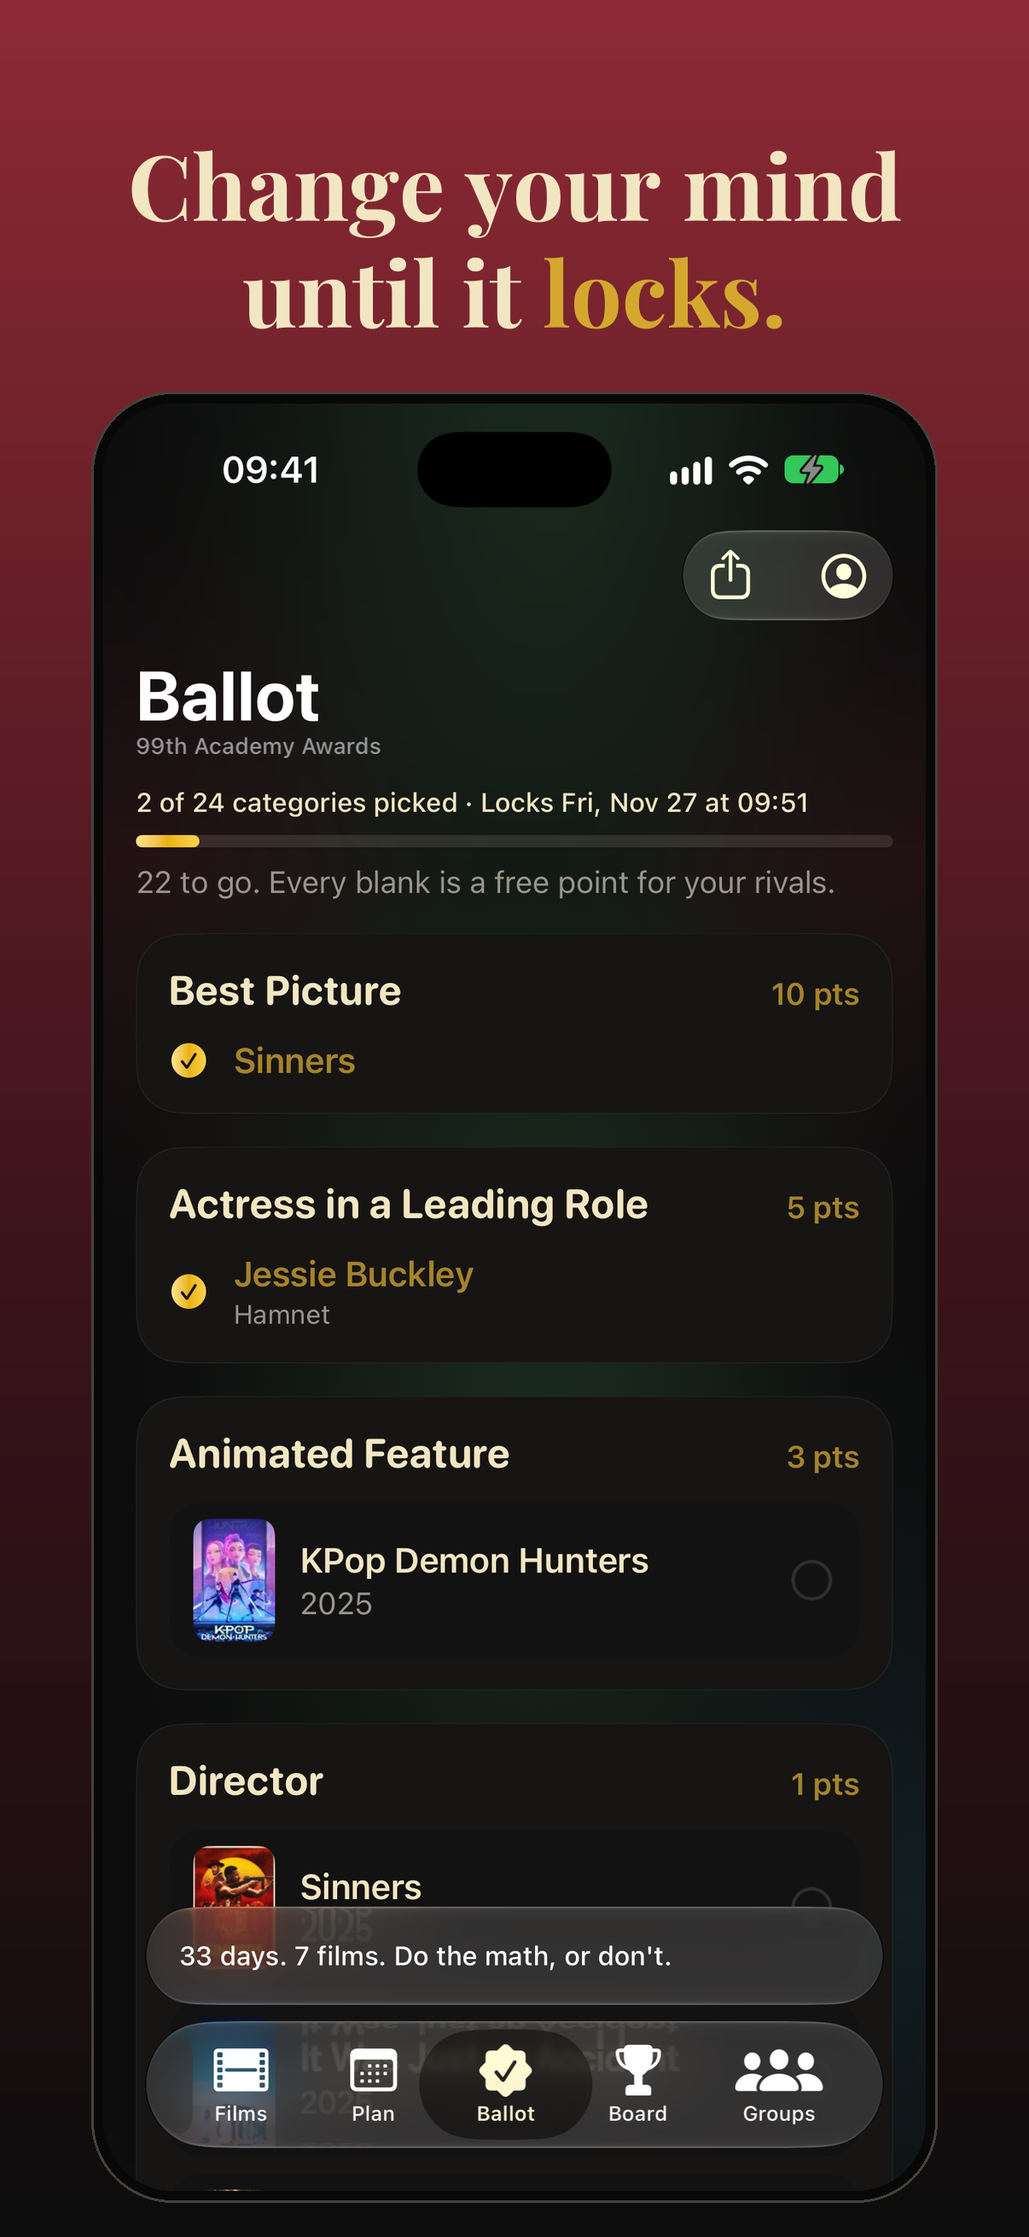
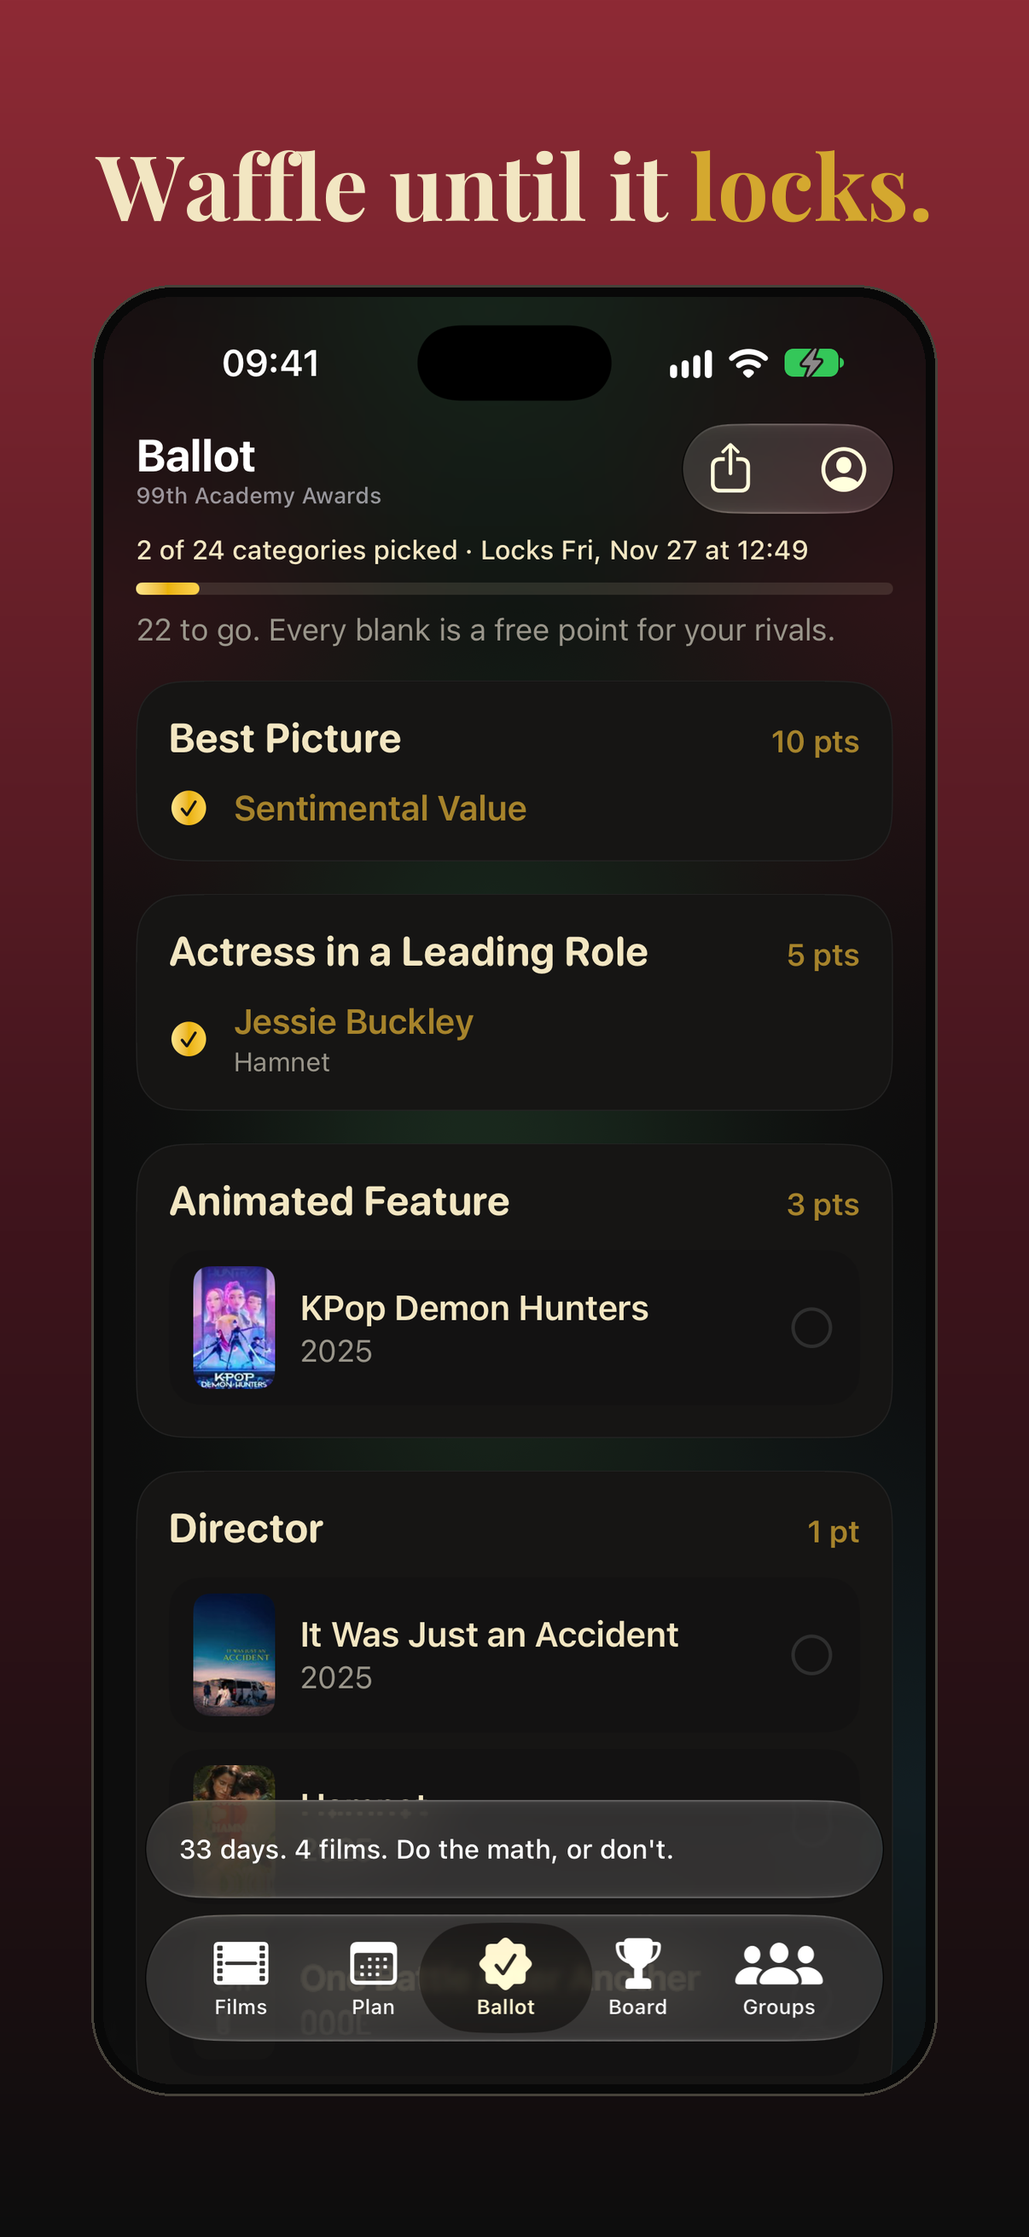
P6-17: store images follow Apple's asset best practices
- Headlines sell the moment in the Host voice (frames.json, listing.md).
- -store-shots (DEBUG): the sample season leaves out the Sinners,
  Bugonia and Frankenstein posters so every shot suits a 4+ rating, and
  share cards drop the App Store badge. Posters and the real card unchanged.
- New iOS 27 universal creative asset (5244 x 2950, header and search
  results), plus a wordmark variant, in docs/app-store/creative/.
- Drafts recaptured for iPhone 6.9", 6.3" and, new, iPad 13".

diff --git a/OscarsTracker/OscarsTracker/Data/SampleDataSource.swift b/OscarsTracker/OscarsTracker/Data/SampleDataSource.swift
@@ -197,6 +197,31 @@ final class SampleDataSource: AppDataSource {
         }
     }
 
+    /// Sample films whose posters don't suit a 4+ store image (a gun aimed,
+    /// a face dripping like a wound, a skull in hand).
+    static let storeUnsafeFilms: Set<Int> = [2, 5, 7]
+
+    /// The season for App Store captures (`-store-shots`): the same story with
+    /// the films above left out of the season (films, ballot, plan, everyone's
+    /// watched lists), so no screen can show their posters. The posters
+    /// themselves are untouched.
+    func useStoreSafeSeason() {
+        let unsafe = Self.storeUnsafeFilms
+        movieList.removeAll { unsafe.contains($0.id) }
+        watched = [1, 4, 6]
+        categories = categories.map { category in
+            BallotCategory(id: category.id, name: category.name, pointsValue: category.pointsValue,
+                           nominations: category.nominations.filter { !unsafe.contains($0.movie?.id ?? 0) },
+                           displayMode: category.displayMode)
+        }
+        savedPicks[1] = 104  // Sentimental Value, not Sinners
+        let swaps = [2: 8, 5: 9]  // Frankenstein and Sinners leave the plan for It Was Just an Accident and Marty Supreme
+        planItems = planItems.map { item in
+            guard let movieID = swaps[item.movieId], let day = PlanDay(item.plannedDate) else { return item }
+            return SampleData.planItem(id: item.id, movieID: movieID, day: day)
+        }
+    }
+
     /// Fixed shares to serve instead of the made-up ones.
     var shareRows: [PickShare]?
     /// How long each group's shares take to arrive, for tests of answers

diff --git a/OscarsTracker/OscarsTracker/App/OscarsTrackerApp.swift b/OscarsTracker/OscarsTracker/App/OscarsTrackerApp.swift
@@ -49,6 +49,8 @@ struct OscarsTrackerApp: App {
     /// mode on the rehearsal, with Best Picture announced three seconds in;
     /// add `-live-activity` to start the Live Activity a second later).
     /// `-ballot-stage locked` or `winners` moves the season past the lock.
+    /// `-store-shots` is for App Store captures: posters that don't suit a 4+
+    /// store image stay off screen, and share cards leave off the App Store badge.
     private static func dataSource() -> any AppDataSource {
         #if DEBUG
         let arguments = ProcessInfo.processInfo.arguments
@@ -58,6 +60,8 @@ struct OscarsTrackerApp: App {
             if arguments.contains("-blocked") {
                 data.blocked = [BlockedUser(userId: "u-chris", username: "Chris", avatarUrl: nil, blockedAt: nil)]
             }
+            let storeShots = arguments.contains("-store-shots")
+            if storeShots { data.useStoreSafeSeason() }
             switch UserDefaults.standard.string(forKey: "ballot-stage") {
             case "locked": data.passLock()
             case "winners": data.passLock(winners: true)
@@ -69,7 +73,7 @@ struct OscarsTrackerApp: App {
                 data.config.featureFlags[AppConfig.liveActivity] = arguments.contains("-live-activity")
                 Task {
                     try? await Task.sleep(for: .seconds(3))
-                    data.announce([103], inCategory: 1)
+                    data.announce([storeShots ? 104 : 103], inCategory: 1)
                 }
             }
             return data

diff --git a/OscarsTracker/OscarsTracker/Share/ShareCardView.swift b/OscarsTracker/OscarsTracker/Share/ShareCardView.swift
@@ -27,6 +27,13 @@ private enum PlayfairDisplay {
 /// your picks and, once winners are in, your wins and score.
 struct ShareCardView: View {
     static let size = CGSize(width: 360, height: 640)
+    #if DEBUG
+    /// Off for App Store captures (`-store-shots`): store images can't show
+    /// another marketplace's logo, and that includes Apple's own badge.
+    static let showsStoreBadge = !ProcessInfo.processInfo.arguments.contains("-store-shots")
+    #else
+    static let showsStoreBadge = true
+    #endif
 
     let card: ShareCard
     /// Posters by URL string, loaded before the card is drawn (an
@@ -165,8 +172,10 @@ struct ShareCardView: View {
                 Text("Oscars Tracker").font(.playfair(18)).foregroundStyle(Self.gold)
                 // Apple's official badge, unaltered, with clear space of at
                 // least a quarter of its height (App Store marketing guidelines).
-                Image("AppStoreBadge").resizable().scaledToFit().frame(height: 28)
-                    .padding(.leading, 10)
+                if Self.showsStoreBadge {
+                    Image("AppStoreBadge").resizable().scaledToFit().frame(height: 28)
+                        .padding(.leading, 10)
+                }
             }
             Text("Posters and film data from TMDB. This product uses the TMDB API but is not endorsed or certified by TMDB.")
                 .font(.system(size: 5.5)).foregroundStyle(Self.muted).multilineTextAlignment(.center)

diff --git a/OscarsTracker/OscarsTrackerTests/Native/StoreShotsTests.swift b/OscarsTracker/OscarsTrackerTests/Native/StoreShotsTests.swift
@@ -1,0 +1,31 @@
+import Foundation
+import Testing
+@testable import OscarsTracker
+
+/// The `-store-shots` season keeps posters unfit for a 4+ store image off screen (P6-17).
+@MainActor
+@Suite("Store shots")
+struct StoreShotsTests {
+    private let user = SampleDataSource.userID
+
+    @Test func leavesUnsafeFilmsOutOfTheSeason() async throws {
+        let data = SampleDataSource(fullBallot: true)
+        data.useStoreSafeSeason()
+        let unsafe = SampleDataSource.storeUnsafeFilms
+        let categories = try await data.ballot()
+        let picks = try await data.picks(userID: user)
+        let picked = categories.flatMap(\.nominations).filter { picks.values.contains($0.id) }.compactMap(\.movie?.id)
+        #expect(unsafe.isDisjoint(with: picked))
+        #expect(unsafe.isDisjoint(with: try await data.plan(userID: user).map(\.movieId)))
+        #expect(unsafe.isDisjoint(with: try await data.watchedMovieIDs(userID: user)))
+        #expect(unsafe.isDisjoint(with: try await data.movies().map(\.id)))
+        let nominated = Set(categories.flatMap(\.nominations).compactMap(\.movie?.id))
+        #expect(unsafe.isDisjoint(with: nominated))
+        #expect(categories.allSatisfy { !$0.nominations.isEmpty })
+    }
+
+    @Test func leavesTheRegularSampleSeasonAlone() async throws {
+        let data = SampleDataSource()
+        #expect(try await data.picks(userID: user)[1] == 103)
+    }
+}

diff --git a/scripts/frame-store-images.py b/scripts/frame-store-images.py
@@ -1,19 +1,26 @@
 #!/usr/bin/env python3
 """Frames raw simulator screenshots into App Store images.
 
-Usage: scripts/frame-store-images.py [--raw DIR] [--out DIR] [--only SET ...]
+Usage: scripts/frame-store-images.py [--raw DIR] [--out DIR] [--only SET ...] [--creative]
 
 For every set folder in --raw (iphone-6.9, iphone-6.1, ipad-13) and every
 shot in docs/app-store/screenshots/frames.json it writes <out>/<set>/<shot>.png at the
 set's exact App Store size, RGB with no alpha: a velvet gradient, the headline in
 Playfair Display (parchment, one gold word at most), and the screenshot in a device
 bezel that bleeds off the bottom edge. Sample data only; no Academy marks.
+
+--creative also makes the iOS 27 creative asset into docs/app-store/creative/:
+one universal asset (16:9, 5244 x 2950, PNG) that fills both the product page
+header and search results, from the iphone-6.9 raw shots. The size is Apple's
+creative assets specifications; the safe area is the art-safe area of Apple's
+universal template (1402 x 962 at x 1921, y 660), and all focal art stays inside it.
 """
 import argparse, json, pathlib, sys
 from PIL import Image, ImageDraw, ImageFont
 
 ROOT = pathlib.Path(__file__).resolve().parent.parent
 FONT = ROOT / "OscarsTracker/OscarsTracker/Resources/Fonts/PlayfairDisplay.ttf"
+LOGO = ROOT / "OscarsTracker/OscarsTracker/Resources/Assets.xcassets/BrandLogo.imageset/BrandLogo.png"
 SIZES = {"iphone-6.9": (1320, 2868), "iphone-6.1": (1206, 2622), "ipad-13": (2064, 2752), "duo-outer": (1398, 2034)}
 VELVET, INK, PARCHMENT, GOLD = (142, 42, 53), (13, 13, 13), (242, 230, 194), (212, 168, 47)
 
@@ -42,12 +49,31 @@ def wrap(draw, text, width, font):
     return lines
 
 
+def playfair(size):
+    font = ImageFont.truetype(str(FONT), size)
+    font.set_variation_by_name("Bold")
+    return font
+
+
+def device(raw, target_w, outer_w):
+    """The screenshot in a rounded black bezel, as an RGBA image."""
+    shot = raw.convert("RGB")
+    shot = shot.resize((target_w, int(shot.height * target_w / shot.width)), Image.LANCZOS)
+    bezel, radius = int(outer_w * 0.012), int(target_w * 0.085)
+    phone = Image.new("RGBA", (target_w + 2 * bezel, shot.height + 2 * bezel), (0, 0, 0, 0))
+    ImageDraw.Draw(phone).rounded_rectangle(
+        (0, 0, phone.width - 1, phone.height - 1), radius + bezel, fill=(8, 8, 8, 255), outline=(70, 66, 58, 255), width=3)
+    mask = Image.new("L", shot.size, 0)
+    ImageDraw.Draw(mask).rounded_rectangle((0, 0, shot.width - 1, shot.height - 1), radius, fill=255)
+    phone.paste(shot, (bezel, bezel), mask)
+    return phone
+
+
 def frame(raw_path, size, text, gold, out_path):
     w, h = size
     canvas = gradient(w, h)
     draw = ImageDraw.Draw(canvas)
-    font = ImageFont.truetype(str(FONT), int(w * 0.088))
-    font.set_variation_by_name("Bold")
+    font = playfair(int(w * 0.088))
     y = int(h * 0.055)
     for line in wrap(draw, text, w, font):
         x = (w - draw.textlength(line, font=font)) / 2
@@ -55,19 +81,68 @@ def frame(raw_path, size, text, gold, out_path):
             draw.text((x, y), word, font=font, fill=GOLD if word in gold else PARCHMENT)
             x += draw.textlength(word + " ", font=font)
         y += int(font.size * 1.18)
-    shot = Image.open(raw_path).convert("RGB")
-    target_w = int(w * 0.80)
-    shot = shot.resize((target_w, int(shot.height * target_w / shot.width)), Image.LANCZOS)
-    bezel, radius = int(w * 0.012), int(target_w * 0.085)
-    phone = Image.new("RGBA", (target_w + 2 * bezel, shot.height + 2 * bezel), (0, 0, 0, 0))
-    ImageDraw.Draw(phone).rounded_rectangle(
-        (0, 0, phone.width - 1, phone.height - 1), radius + bezel, fill=(8, 8, 8, 255), outline=(70, 66, 58, 255), width=3)
-    mask = Image.new("L", shot.size, 0)
-    ImageDraw.Draw(mask).rounded_rectangle((0, 0, shot.width - 1, shot.height - 1), radius, fill=255)
-    phone.paste(shot, (bezel, bezel), mask)
+    phone = device(Image.open(raw_path), int(w * 0.80), w)
     canvas.paste(phone, ((w - phone.width) // 2, y + int(h * 0.025)), phone)  # bleeds off the bottom edge
     out_path.parent.mkdir(parents=True, exist_ok=True)
     canvas.save(out_path, "PNG")  # canvas is RGB, so no alpha channel
+
+
+# Creative assets (iOS 27): one universal asset fills both the product page
+# header and search results. Safe area is (left, top, right, bottom).
+UNIVERSAL_SIZE, UNIVERSAL_SAFE = (5244, 2950), (1921, 660, 3323, 1622)
+UNIVERSAL_LINES = ["Track every nominee.", "Beat your friends."]
+
+
+def spotlight(w, h, centre):
+    """Ink edges, velvet in a soft pool of light around the centre."""
+    glow = Image.radial_gradient("L").resize((w, int(h * 1.6)), Image.BILINEAR)
+    mask = Image.new("L", (w, h), 255)
+    mask.paste(glow, (centre[0] - glow.width // 2, centre[1] - glow.height // 2))
+    mask = mask.point(lambda v: int(255 * (v / 255) ** 0.65 * 0.94))
+    return Image.composite(Image.new("RGB", (w, h), INK), Image.new("RGB", (w, h), VELVET), mask)
+
+
+def universal(raw_dir, out_path, wordmark=False):
+    """Brand and purpose in the safe area: the logo (or the name) and the promise
+    on the left, the real Films tab on the right. Outside it, only velvet, so
+    every crop (wide header, 3:2 search tile) reads the same."""
+    w, h = UNIVERSAL_SIZE
+    l, t, r, b = UNIVERSAL_SAFE
+    canvas = spotlight(w, h, ((l + r) // 2, (t + b) // 2))
+    draw = ImageDraw.Draw(canvas)
+    phone = device(Image.open(raw_dir / "01-films.png"), 390, 1320)
+    assert phone.height <= b - t, "phone runs out of the safe area"
+    px = r - phone.width
+    canvas.paste(phone, (px, t + (b - t - phone.height) // 2), phone)
+    col_l, col_r = l, px - 60
+    cx = (col_l + col_r) // 2
+    font = playfair(92)
+    for line in UNIVERSAL_LINES:
+        assert draw.textlength(line, font=font) <= col_r - col_l, "line runs out of its column"
+    if wordmark:
+        name = playfair(118)
+        mark_h = int(name.size * 1.3)
+    else:
+        mark_h = 300
+    gap = 56
+    block = mark_h + gap + len(UNIVERSAL_LINES) * int(font.size * 1.2)
+    y = t + (b - t - block) // 2
+    if wordmark:
+        draw.text((cx - draw.textlength("Oscars Tracker", font=name) / 2, y), "Oscars Tracker", font=name, fill=GOLD)
+    else:
+        logo = Image.open(LOGO).convert("RGBA").resize((mark_h, mark_h), Image.LANCZOS)
+        canvas.paste(logo, (cx - mark_h // 2, y), logo)
+    y = y + mark_h + gap
+    for line in UNIVERSAL_LINES:
+        draw.text((cx - draw.textlength(line, font=font) / 2, y), line, font=font, fill=PARCHMENT)
+        y += int(font.size * 1.2)
+    assert y <= b + font.size * 0.25, "text runs below the safe area"
+    save(canvas, out_path)
+
+
+def save(canvas, out_path):
+    out_path.parent.mkdir(parents=True, exist_ok=True)
+    canvas.convert("RGB").save(out_path, "PNG")  # RGB, so no alpha channel
 
 
 def main():
@@ -75,7 +150,14 @@ def main():
     ap.add_argument("--raw", default=str(ROOT / "docs/app-store/screenshots/raw"))
     ap.add_argument("--out", default=str(ROOT / "docs/app-store/screenshots/draft"))
     ap.add_argument("--only", nargs="*", help="set names, e.g. iphone-6.9")
+    ap.add_argument("--creative", action="store_true", help="also make the universal header and search results asset")
     a = ap.parse_args()
+    if a.creative:
+        out = ROOT / "docs/app-store/creative"
+        raw = pathlib.Path(a.raw) / "iphone-6.9"
+        universal(raw, out / "universal.png")
+        universal(raw, out / "universal-wordmark.png", wordmark=True)
+        print(f"made the universal creative asset in {out}")
     frames = json.load(open(ROOT / "docs/app-store/screenshots/frames.json"))["frames"]
     made = 0
     for name, size in SIZES.items():

diff --git a/docs/app-store/listing.md b/docs/app-store/listing.md
@@ -217,18 +217,20 @@ The review notes above are the final text. Remaining placeholders: demo email an
 
 ## Framed screenshot headlines (P6-17)
 
-Source of truth is `docs/app-store/screenshots/frames.json`; this table mirrors it. Host voice, sentence case, no Oscar marks, no jokes about people. Gold marks the one earned word, if any.
+Source of truth is `docs/app-store/screenshots/frames.json`; this table mirrors it. Each headline sells the moment instead of describing the screen (Apple's App Store asset best practices, rewritten Oct 25). Host voice, sentence case, no Oscar marks, no jokes about people. Gold marks the one earned word, if any.
 
 | Shot | Headline | Gold word |
 |---|---|---|
-| 01 Films | Every nominee, one list. | none |
-| 02 Ballot | One pick per category. | pick |
-| 03 Full ballot | Change your mind until it locks. | locks. |
-| 04 Plan | Plan your watching, day by day. | none |
-| 05 Board | Beat your friends. | none |
-| 06 Film sheet | Know where it's streaming. | none |
-| 07 Live mode | Follow the night as it happens. | none |
-| 08 Ballot share card | Share your ballot. | none |
-| 09 Results share card | Share your score. | none |
+| 01 Films | Every nominee. No excuses. | none |
+| 02 Ballot | Call every category. | Call |
+| 03 Full ballot | Waffle until it locks. | locks. |
+| 04 Plan | The couch has a schedule now. | none |
+| 05 Board | Bragging rights, ranked. | none |
+| 06 Film sheet | Tonight's film, sorted. | none |
+| 07 Live mode | Gloat in real time. | none |
+| 08 Ballot share card | Put your picks on the record. | picks |
+| 09 Results share card | Prove you called it. | called |
 
-Pipeline: `scripts/capture-store-screenshots.sh` (raw, `-sample-data`, dedicated "Store shots" simulators) → `scripts/frame-store-images.py` (velvet gradient, Playfair Display headline, device bezel; exact App Store size, RGB, no alpha) → `docs/app-store/screenshots/draft/<set>/` for review, `final/<set>/` after the Phase 6 merge. Set sizes: iPhone 6.9" 1320 × 2868, iPhone 6.3" 1206 × 2622 (Apple now labels this the required medium Dynamic Island set), iPad 13" 2064 × 2752. Duo sizes are skipped until April 2027.
+Pipeline: `scripts/capture-store-screenshots.sh` (raw, `-sample-data -store-shots`, dedicated "Store shots" simulators) → `scripts/frame-store-images.py` (velvet gradient, Playfair Display headline, device bezel; exact App Store size, RGB, no alpha) → `docs/app-store/screenshots/draft/<set>/` for review, `final/<set>/` after the Phase 6 merge. Set sizes: iPhone 6.9" 1320 × 2868, iPhone 6.3" 1206 × 2622 (Apple now labels this the required medium Dynamic Island set), iPad 13" 2064 × 2752. Duo sizes are skipped until April 2027.
+
+Store images must suit a 4+ rating even though the app is rated higher, and can't show another marketplace's logo (Apple's asset best practices). `-store-shots` handles both: the Sinners (a gun aimed), Bugonia (a face dripping like a wound) and Frankenstein (a skull) posters stay off screen through the sample data (left out of the sample season: films, ballot, plan and watched lists), and share cards leave off the App Store badge. The posters themselves are never edited. The iOS 27 creative asset (one universal image for the product page header and search results) is in `docs/app-store/creative/` (see its README).

diff --git a/docs/app-store/creative/README.md b/docs/app-store/creative/README.md
@@ -1,0 +1,15 @@
+# Creative assets (iOS 27, P6-17)
+
+Optional App Store creative assets, shown on iOS and iPadOS 27 and later. We use **one universal asset** for both the product page header and search results, so the brand reads the same in both places (Apple's suggestion). Made by `scripts/frame-store-images.py --creative` from the iphone-6.9 raw shots (`-sample-data -store-shots`). **Drafts for review.** The user uploads it in App Store Connect: the version's Product Page Information → Header and Search Results → Header, then tick **Use header asset in search results**.
+
+| File | What | Size |
+|---|---|---|
+| `universal.png` | The logo, "Track every nominee. Beat your friends.", and the real Films tab | 5244 × 2950, 16:9, PNG |
+| `universal-wordmark.png` | The same, with the name in Playfair in place of the logo (see the note on the logo) | same |
+
+- **Size and format:** Apple's [Creative assets specifications](https://developer.apple.com/help/app-store-connect/reference/app-information/creative-assets-specifications). The universal asset is exactly 5244 × 2950 and must be PNG with no alpha. Checked Oct 25, 2026.
+- **Safe area:** 1402 × 962 at x 1921, y 660 (x 1921–3323, y 660–1622), centred across and above centre. Apple's spec page doesn't print it; this is the art-safe layer of Apple's universal template as measured by others. The logo, the line and the phone all sit inside it, and outside it is only velvet, so the wide header crop and the 3:2 search crop show the same thing. Check it in App Store Connect's **Preview** (iPhone and iPad, both orientations) before you submit.
+- The safe area is close to 3:2, so in search results (about 365 pt wide on an iPhone) the content fills the tile and the line reads at about 23 pt.
+- **Fallback, if Preview shows a crop that doesn't work:** dedicated assets, a header at 3840 × 1646 (21:9, safe x 1097–2743, y 493–1154) and search results at 3840 × 2560 (3:2, safe x 836–3004, y 765–1795).
+- **Logo note:** `BrandLogo` has a statuette silhouette inside the film reel. listing.md's trademark rule says the icon has no statuette and store assets carry no Oscar marks. `universal-wordmark.png` avoids the question; decide before upload.
+- Not uploaded.
